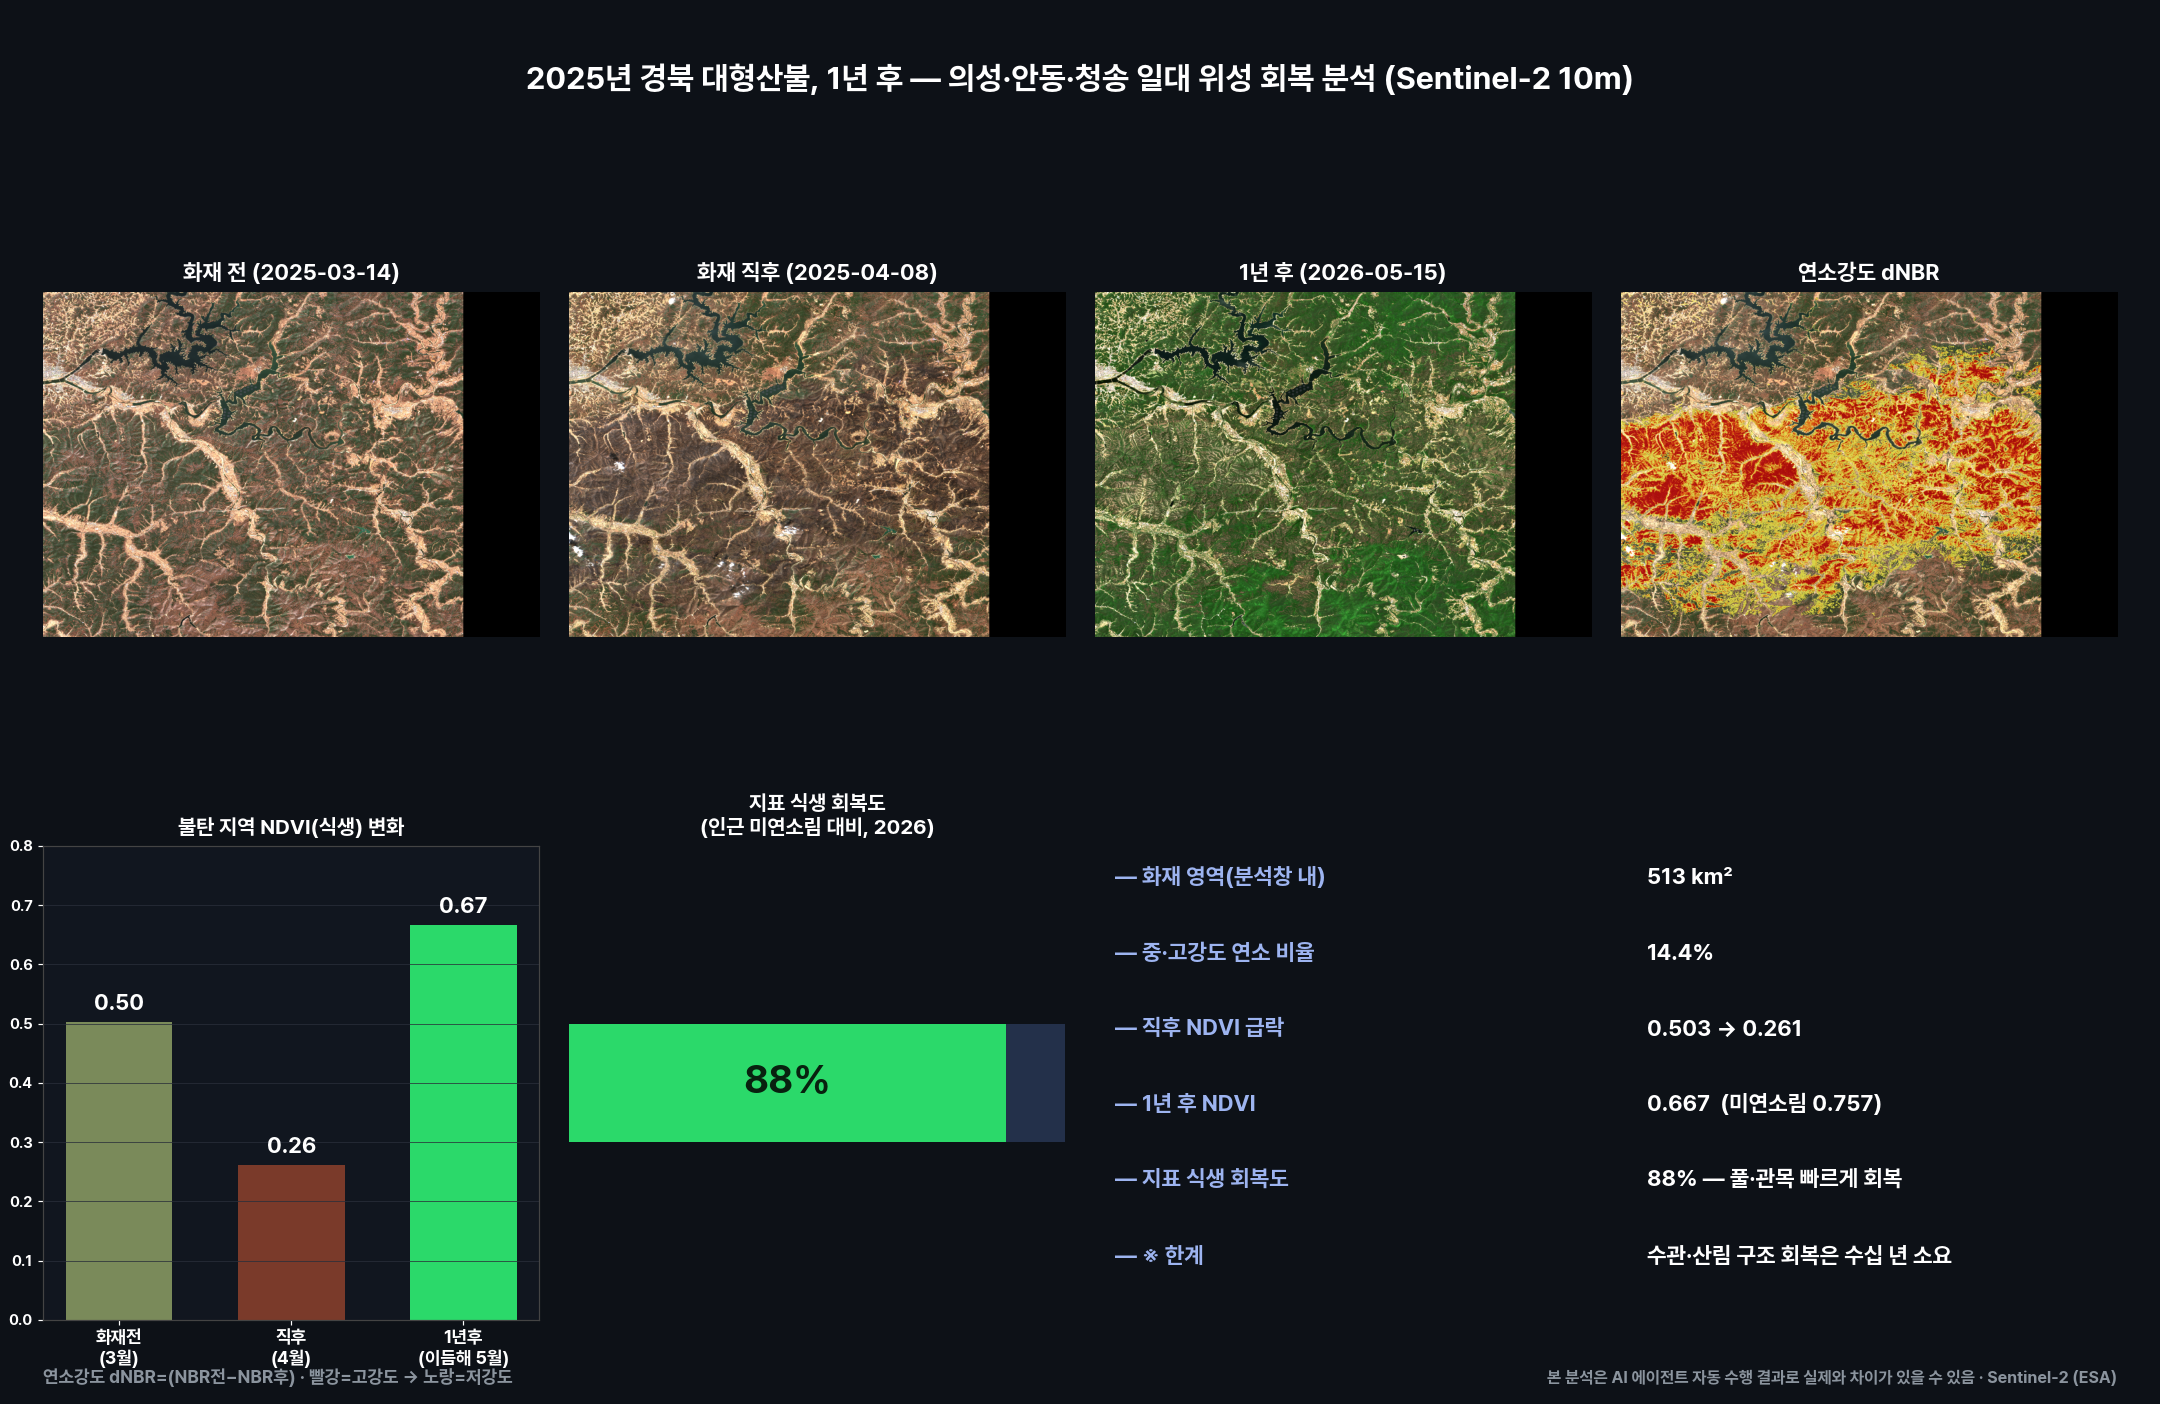
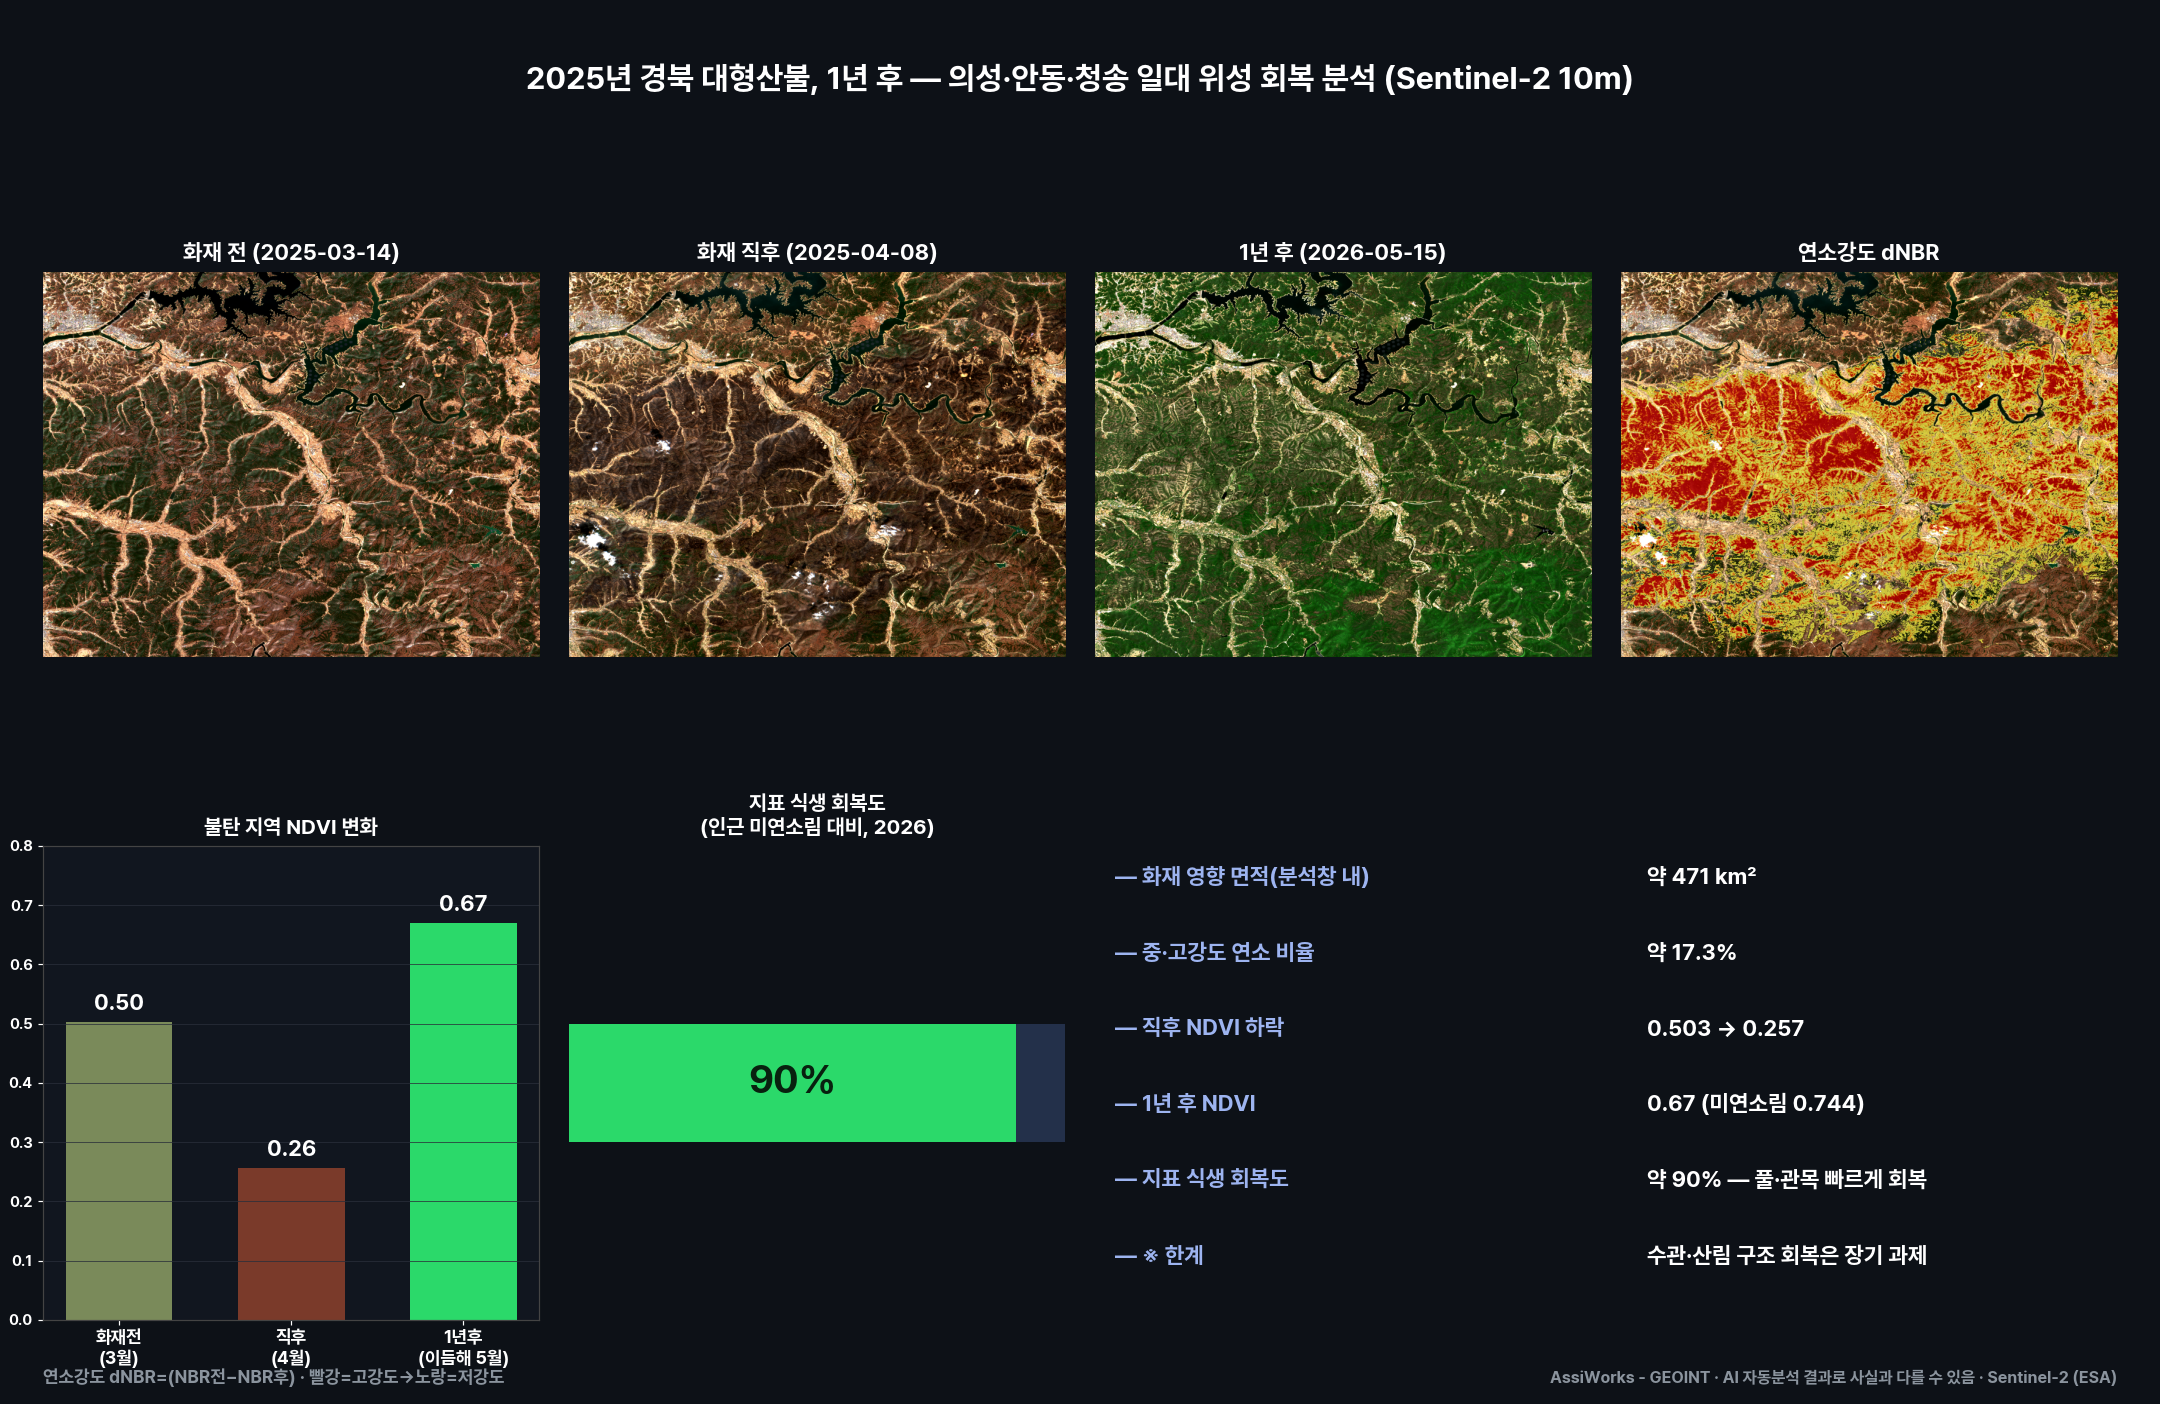
수정: 위성영상 검은영역 제거(유효역 크롭) · FB 좌측마진 확대(130px) · 명칭 AssiWorks - GEOINT
- 산불 bbox 재설정으로 무효역 제거, 영상카드 전종 마진 확대
- AIFactory GEOINT → AssiWorks - GEOINT (README/리포트/byline/git author)

diff --git a/reports/2026-06-13/07/REPORT.md b/reports/2026-06-13/07/REPORT.md
@@ -1,6 +1,6 @@
 # 특집 — 2025년 경북 대형산불, 1년 후
 
-**발행**: 2026-06-13 07시 · **분석**: AIFactory GEOINT 자율 에이전트  
+**발행**: 2026-06-13 07시 · **분석**: AssiWorks - GEOINT  
 **대상지**: 경북 의성·안동·청송 일대 (36.32–36.64°N, 128.72–129.18°E) · **센서**: Sentinel-2 L2A (ESA) · 10 m
 
 > ⚠️ **추정치 안내**: 본 콘텐츠의 모든 수치·판정·해석은 AI·알고리즘이 위성영상을 자동 분석한 **추정 결과**로, 사실과 다를 수 있습니다. 공식 통계·현장 확인과 차이가 있을 수 있으므로 참고용으로만 활용하시기 바랍니다.
@@ -9,8 +9,8 @@
 
 ## 요약
 2025년 3월 발생한 대형 산불 피해지를 Sentinel-2 위성으로 화재 **전·직후·1년 후** 3시점 비교한 결과입니다.
-- 분석창 내 화재 영향 면적 **약 513 km²**.
-- 중·고강도 연소 비율 **약 14.4%**.
+- 분석창 내 화재 영향 면적 **약 471 km²**.
+- 중·고강도 연소 비율 **
 - 불탄 지역 식생지수(NDVI)는 직후 **약 0.261**까지 낮아진 뒤 1년 후 **약 0.667**로 반등.
 - 2026년 기준 지표 식생은 인근 미연소림의 **약 88%** 수준까지 회복.
 - 다만 NDVI가 반영하는 것은 풀·관목 등 **지표 식생**으로, 수관(樹冠)·산림 구조의 회복은 장기 과제입니다.
@@ -39,4 +39,4 @@
 - [`wildfire_wf3_recovery.mp4`](videocards/wildfire_wf3_recovery.mp4) — 1년 후 회복
 
 ---
-_AIFactory GEOINT Agent · 2026-06-13 07시 · Sentinel-2 (ESA)_
+_AssiWorks - GEOINT · 2026-06-13 07시 · Sentinel-2 (ESA)_

diff --git a/reports/2026-06-13/19/REPORT.md b/reports/2026-06-13/19/REPORT.md
@@ -32,4 +32,4 @@
 - [`insight_nakdong_algae.mp4`](videocards/insight_nakdong_algae.mp4)
 
 ---
-_AIFactory GEOINT Agent · 2026-06-13 19시 · Sentinel-2 (ESA)_
+_AssiWorks - GEOINT · 2026-06-13 19시 · Sentinel-2 (ESA)_

diff --git a/reports/2026-06-14/06/REPORT.md b/reports/2026-06-14/06/REPORT.md
@@ -30,4 +30,4 @@
 - [`insight_card.mp4`](videocards/insight_card.mp4)
 
 ---
-_AIFactory GEOINT Agent · 2026-06-14 06시 · Sentinel-2 (ESA)_
+_AssiWorks - GEOINT · 2026-06-14 06시 · Sentinel-2 (ESA)_